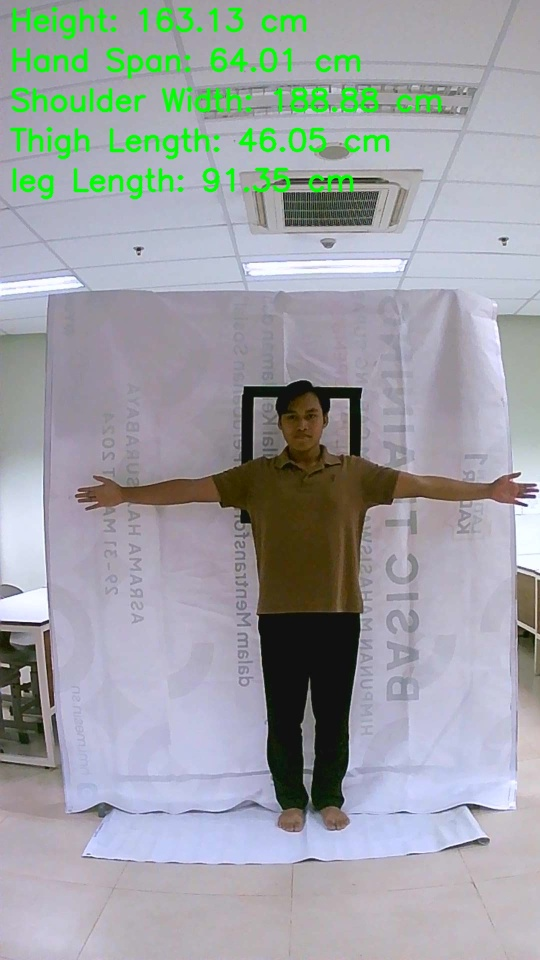
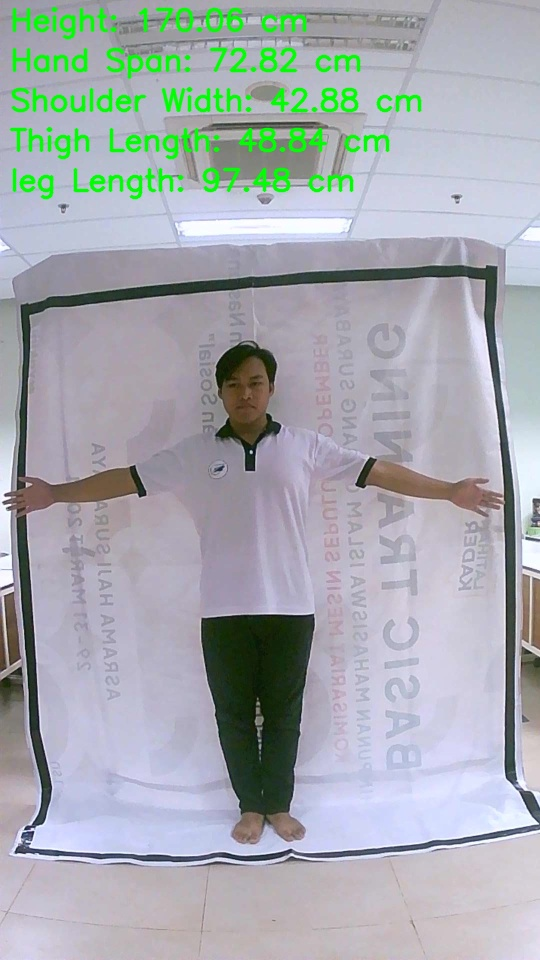
lupa

diff --git a/tes.py b/tes.py
@@ -1,0 +1,52 @@
+import cv2
+import numpy as np
+
+# Load the image
+image_path = './Raw_data/abi.jpg'
+image = cv2.imread(image_path)
+
+# Resize the image to half of its original dimensions
+height, width = image.shape[:2]
+resized_image = cv2.resize(image, (width // 2, height // 2))
+
+# Rotate the resized image 90 degrees clockwise
+rotated_image = cv2.rotate(resized_image, cv2.ROTATE_90_COUNTERCLOCKWISE)
+
+# Convert to grayscale
+gray = cv2.cvtColor(rotated_image, cv2.COLOR_BGR2GRAY)
+
+# Apply GaussianBlur to reduce noise and improve edge detection
+blurred = cv2.GaussianBlur(gray, (5, 5), 0)
+
+# Use Canny edge detector to detect edges
+edges = cv2.Canny(blurred, 50, 150)
+
+# Find contours based on edges
+contours, _ = cv2.findContours(edges, cv2.RETR_EXTERNAL, cv2.CHAIN_APPROX_SIMPLE)
+
+# Filter contours by area to get the largest rectangle (assuming the black line forms the largest rectangle)
+contours = sorted(contours, key=cv2.contourArea, reverse=True)
+black_line_contour = contours[0] if contours else None
+
+# Draw the detected contour on the rotated image (for visualization)
+output_image = rotated_image.copy()
+if black_line_contour is not None:
+    cv2.drawContours(output_image, [black_line_contour], -1, (0, 255, 0), 2)
+
+# Get the bounding box of the black line and crop the image
+if black_line_contour is not None:
+    x, y, w, h = cv2.boundingRect(black_line_contour)
+    cropped_image = rotated_image[y:y+h, x:x+w]
+
+    # Show the cropped image
+    cv2.imshow('Cropped Image', cropped_image)
+    cv2.imshow('Detected Black Line', output_image)
+else:
+    print("Black line not detected.")
+
+# Display the edges for reference
+cv2.imshow('Edges', edges)
+
+# Wait for a key press and close the windows
+cv2.waitKey(0)
+cv2.destroyAllWindows()

diff --git a/detect_antropometri_folder.py b/detect_antropometri_folder.py
@@ -56,7 +56,7 @@ def process_image(image_path):
         shoulder_width_pixel = calculate_pixel_distance(landmarks[mp_pose.PoseLandmark.LEFT_SHOULDER.value],
                                                         landmarks[mp_pose.PoseLandmark.RIGHT_SHOULDER.value], 
                                                         image_width, image_height)
-        shoulder_width_cm = convert_pixel_to_cm(shoulder_width_pixel)
+        shoulder_width_cm = convert_pixel_to_cm(shoulder_width_pixel,0,0.1022,20.933)
 
         # Hitung panjang paha (rata-rata paha kiri dan paha kanan)
         left_thigh_length = calculate_pixel_distance(landmarks[mp_pose.PoseLandmark.LEFT_HIP.value],
